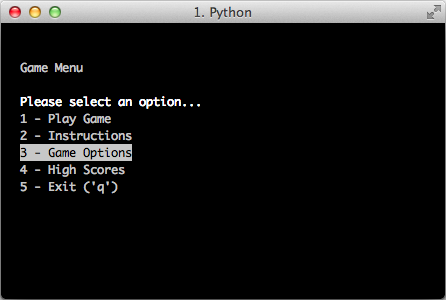
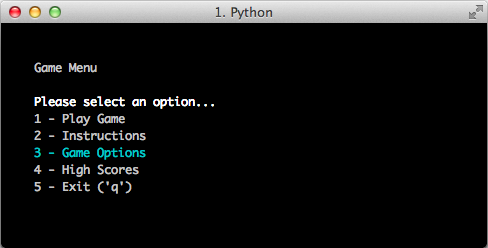
add color for menu

Changed region(s): [[0.0291, 0.1976, 0.4372, 0.7903], [0.0, 0.0, 1.0, 0.1129], [0.0, 0.9879, 1.0, 1.0]]

diff --git a/Term-menu/menu.py b/Term-menu/menu.py
@@ -8,7 +8,7 @@ def launch_menu():
     curses.noecho()             # Turn off the echo mode
     curses.curs_set(0)          # Leave cursor invisible
     curses.start_color()
-    curses.init_pair(1, curses.COLOR_RED, curses.COLOR_WHITE)  # Initialize a color-pair with RED as fg and WHITE as bg
+    curses.init_pair(1, curses.COLOR_CYAN, curses.COLOR_BLACK)  # Initialize a color-pair with RED as fg and WHITE as bg
     screen.keypad(1)
     selection = -1
     option = 0
@@ -16,15 +16,15 @@ def launch_menu():
     while selection < 0:
         screen.clear()
         h = [0] * 5 # curses.A_NORMAL = 0
-        #h[option] = curses.color_pair(1)
-        h[option] = curses.A_REVERSE
-        screen.addstr(2, 2, "Game Menu")
-        screen.addstr(4, 2, "Please select an option...", curses.A_BOLD)
-        screen.addstr(5, 2, "1 - Play Game", h[0])
-        screen.addstr(6, 2, "2 - Instructions", h[1])
-        screen.addstr(7, 2, "3 - Game Options", h[2])
-        screen.addstr(8, 2, "4 - High Scores", h[3])
-        screen.addstr(9, 2, "5 - Exit ('q')", h[4])
+        h[option] = curses.color_pair(1)
+        #h[option] = curses.A_REVERSE
+        screen.addstr(2, 4, "Game Menu")
+        screen.addstr(4, 4, "Please select an option...", curses.A_BOLD)
+        screen.addstr(5, 4, "1 - Play Game", h[0])
+        screen.addstr(6, 4, "2 - Instructions", h[1])
+        screen.addstr(7, 4, "3 - Game Options", h[2])
+        screen.addstr(8, 4, "4 - High Scores", h[3])
+        screen.addstr(9, 4, "5 - Exit ('q')", h[4])
         screen.refresh()
         q = screen.getch()
         if q == curses.KEY_UP or q == ord('k'):      # KEY_UP or 'k' on vim mode
